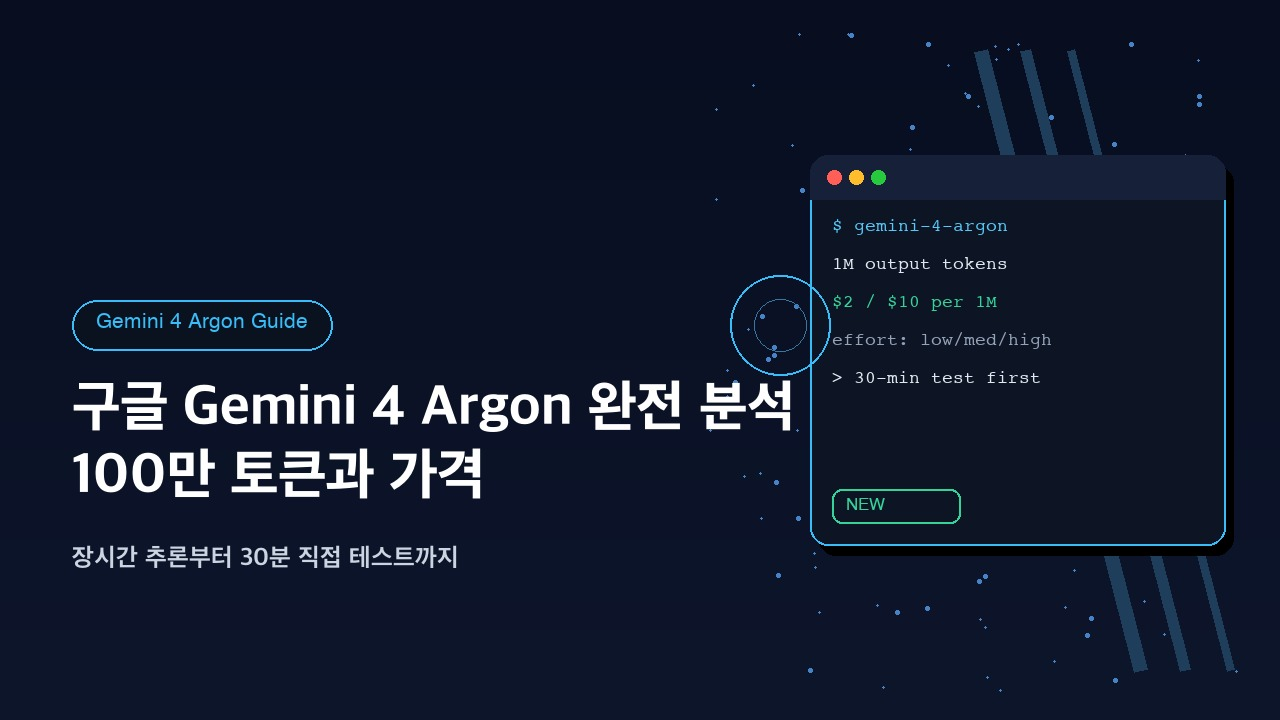
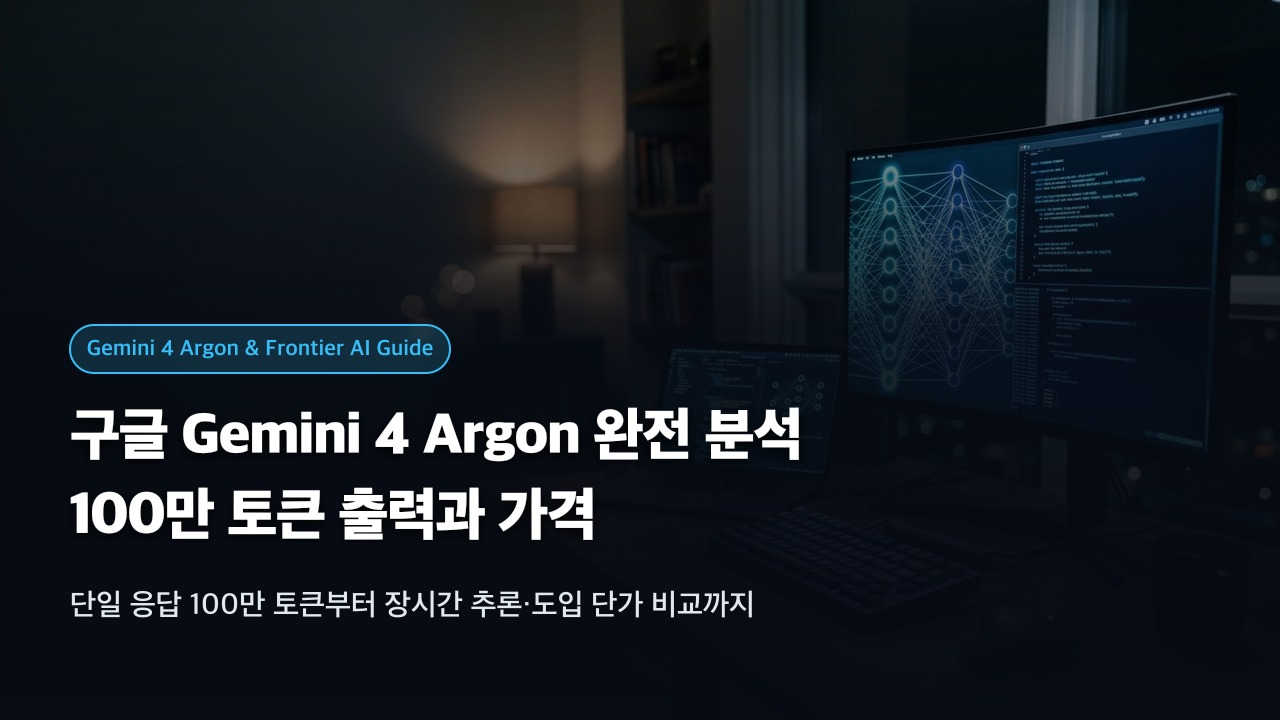
fix(post): Gemini 4 글 보완분 팩트체크 후 반영
- SVG strong 태그 렌더링 버그 수정 (font-weight로 전환)
- thinking_level 공식 파라미터명으로 정정
- 미확인 경쟁사 캐시할인 제거, 검증 수치로 시뮬레이션 재계산
- 썸네일 실사풍 표준 디자인으로 교체

diff --git a/files/posts/20261014-1-gemini-4-argon-analysis-guide.md b/files/posts/20261014-1-gemini-4-argon-analysis-guide.md
@@ -11,31 +11,145 @@ excerpt: "구글 프론티어 모델 Gemini 4 Argon의 100만 토큰 출력, 도
 
 구글이 차세대 프론티어 모델 <strong>Gemini 4 Argon</strong>을 공개했습니다. 2026년 9월 30일 신뢰할 수 있는 사이버 방어 조직 대상의 Fairwind 프로그램으로 먼저 선보인 뒤, 10월 중순부터 Gemini 앱 유료 구독자와 개발자에게 넓게 풀렸습니다. 2025년 말 Gemini 3 이후 약 1년 만의 세대 교체입니다.
 
-구글이 내세운 방향은 분명합니다. 챗봇이 아니라 <strong>소프트웨어 공학, 기업의 지식 업무(법무·금융), 사이버보안 방어</strong> 같은 길고 복잡한 실무 워크플로입니다. 에이전트에게 복잡한 일을 맡기고 몇 시간씩 놔둘 수 있는 <strong>장시간 추론(long-horizon)</strong>이 핵심 설계 목표입니다.
+구글이 내세운 방향은 분명합니다. 단순 챗봇 대화가 아니라 <strong>소프트웨어 공학, 기업의 복합 지식 업무(법무·금융), 사이버보안 취약점 방어</strong> 같은 길고 복잡한 실무 워크플로입니다. 에이전트에게 복잡한 목표를 맡기고 수십 분에서 수 시간 동안 자율 실행하도록 두는 <strong>장시간 추론(Long-Horizon Reasoning)</strong>이 핵심 설계 목표입니다.
+
+<div style="margin: 32px 0; display: flex; justify-content: center; width: 100%;">
+<svg viewBox="0 0 840 340" xmlns="http://www.w3.org/2000/svg" style="width: 100%; max-width: 840px; height: auto; font-family: -apple-system, BlinkMacSystemFont, Pretendard, sans-serif;">
+  <defs>
+    <linearGradient id="cardBg" x1="0%" y1="0%" x2="100%" y2="100%">
+      <stop offset="0%" stop-color="#161b22" />
+      <stop offset="100%" stop-color="#0d1117" />
+    </linearGradient>
+    <filter id="shadow" x="-5%" y="-5%" width="110%" height="110%">
+      <feDropShadow dx="0" dy="4" stdDeviation="6" flood-color="#000000" flood-opacity="0.3" />
+    </filter>
+    <marker id="arrowCyan" viewBox="0 0 10 10" refX="6" refY="5" markerWidth="6" markerHeight="6" orient="auto-start-reverse">
+      <path d="M 0 1 L 10 5 L 0 9 z" fill="#38bdf8" />
+    </marker>
+    <marker id="arrowIndigo" viewBox="0 0 10 10" refX="6" refY="5" markerWidth="6" markerHeight="6" orient="auto-start-reverse">
+      <path d="M 0 1 L 10 5 L 0 9 z" fill="#818cf8" />
+    </marker>
+    <marker id="arrowEmerald" viewBox="0 0 10 10" refX="6" refY="5" markerWidth="6" markerHeight="6" orient="auto-start-reverse">
+      <path d="M 0 1 L 10 5 L 0 9 z" fill="#34d399" />
+    </marker>
+    <marker id="arrowAmber" viewBox="0 0 10 10" refX="6" refY="5" markerWidth="6" markerHeight="6" orient="auto-start-reverse">
+      <path d="M 0 1 L 10 5 L 0 9 z" fill="#fbbf24" />
+    </marker>
+  </defs>
+  <!-- Background Container -->
+  <rect width="840" height="340" rx="14" fill="#0d1117" stroke="#30363d" stroke-width="1.5" />
+  <!-- Title Badge -->
+  <rect x="25" y="16" width="310" height="26" rx="13" fill="rgba(56, 189, 248, 0.15)" stroke="#38bdf8" stroke-width="1" />
+  <text x="180" y="33" fill="#38bdf8" font-size="12" font-weight="700" text-anchor="middle">Gemini 4 Argon Long-Horizon Agent Architecture</text>
+  
+  <!-- Node 1: Task Spec & Prompt Cache -->
+  <g transform="translate(25, 75)" filter="url(#shadow)">
+    <rect width="175" height="235" rx="10" fill="url(#cardBg)" stroke="#30363d" stroke-width="1.2" />
+    <rect x="12" y="14" width="28" height="28" rx="6" fill="#38bdf8" fill-opacity="0.2" />
+    <text x="26" y="33" font-size="16" text-anchor="middle">🎯</text>
+    <text x="48" y="33" fill="#ffffff" font-size="14" font-weight="700">작업 &amp; 컨텍스트</text>
+    <text x="16" y="65" fill="#38bdf8" font-size="11.5" font-weight="600">Prompt Caching ($0.10)</text>
+    <text x="16" y="88" fill="#94a3b8" font-size="11.5">• 대규모 소스코드 베이스</text>
+    <text x="16" y="108" fill="#94a3b8" font-size="11.5">• 방대한 법률/금융 문서</text>
+    <text x="16" y="128" fill="#94a3b8" font-size="11.5">• 보안 취약점 점검 명세</text>
+    <text x="16" y="158" fill="#34d399" font-size="11.5" font-weight="600">➔ 95% 캐싱 입력 할인</text>
+    <text x="16" y="178" fill="#94a3b8" font-size="11">• 반복 호출 시 TCO 극소화</text>
+  </g>
+
+  <!-- Node 2: Gemini 4 Argon Frontier Engine -->
+  <g transform="translate(225, 55)" filter="url(#shadow)">
+    <rect width="235" height="255" rx="10" fill="url(#cardBg)" stroke="#38bdf8" stroke-width="1.8" />
+    <rect x="12" y="14" width="28" height="28" rx="6" fill="#38bdf8" fill-opacity="0.2" />
+    <text x="26" y="33" font-size="16" text-anchor="middle">🧠</text>
+    <text x="48" y="33" fill="#ffffff" font-size="14" font-weight="700">Gemini 4 Argon Core</text>
+    <text x="16" y="65" fill="#7dd3fc" font-size="12" font-weight="600">Frontier Reasoning Engine</text>
+    <text x="16" y="90" fill="#94a3b8" font-size="11.5" font-weight="600">• 동적 추론 노력도 조절</text>
+    <text x="28" y="108" fill="#c7d2fe" font-size="11">low · medium · high</text>
+    <text x="16" y="132" fill="#94a3b8" font-size="11.5" font-weight="600">• 단일 응답 100만 토큰</text>
+    <text x="28" y="150" fill="#94a3b8" font-size="11">Continuation Token 루프</text>
+    <text x="16" y="174" fill="#94a3b8" font-size="11.5" font-weight="600">• Long-Horizon CoT</text>
+    <text x="28" y="192" fill="#94a3b8" font-size="11">세션 메모리 &amp; 상태 유지</text>
+    <text x="16" y="222" fill="#38bdf8" font-size="11.5" font-weight="600">➔ 스트리밍 청크 무중단 생성</text>
+  </g>
+
+  <!-- Node 3: Execution Sandbox -->
+  <g transform="translate(485, 55)" filter="url(#shadow)">
+    <rect width="165" height="115" rx="10" fill="url(#cardBg)" stroke="#818cf8" stroke-width="1.4" />
+    <rect x="12" y="12" width="26" height="26" rx="6" fill="#818cf8" fill-opacity="0.2" />
+    <text x="25" y="30" font-size="15" text-anchor="middle">⚙</text>
+    <text x="45" y="30" fill="#ffffff" font-size="13" font-weight="700">실행 샌드박스</text>
+    <text x="14" y="58" fill="#c7d2fe" font-size="11" font-weight="600">Isolated Sandbox</text>
+    <text x="14" y="78" fill="#94a3b8" font-size="11">• 코드 빌드 &amp; 실행</text>
+    <text x="14" y="96" fill="#94a3b8" font-size="11">• 도구 / API 자율 호출</text>
+  </g>
+
+  <!-- Node 4: External Grader -->
+  <g transform="translate(485, 195)" filter="url(#shadow)">
+    <rect width="165" height="115" rx="10" fill="url(#cardBg)" stroke="#fbbf24" stroke-width="1.4" />
+    <rect x="12" y="12" width="26" height="26" rx="6" fill="#fbbf24" fill-opacity="0.2" />
+    <text x="25" y="30" font-size="15" text-anchor="middle">🛡</text>
+    <text x="45" y="30" fill="#ffffff" font-size="13" font-weight="700">외부 채점자 (Grader)</text>
+    <text x="14" y="58" fill="#fde68a" font-size="11" font-weight="600">Independent Verifier</text>
+    <text x="14" y="78" fill="#94a3b8" font-size="11">• 테스트 러너 &amp; Linter</text>
+    <text x="14" y="96" fill="#34d399" font-size="11" font-weight="600">• 자가 합리화 편향 차단</text>
+  </g>
+
+  <!-- Node 5: Deliverable -->
+  <g transform="translate(675, 105)" filter="url(#shadow)">
+    <rect width="140" height="155" rx="10" fill="url(#cardBg)" stroke="#34d399" stroke-width="1.4" />
+    <rect x="12" y="12" width="26" height="26" rx="6" fill="#34d399" fill-opacity="0.2" />
+    <text x="25" y="30" font-size="15" text-anchor="middle">📦</text>
+    <text x="45" y="30" fill="#ffffff" font-size="13" font-weight="700">검증된 산출물</text>
+    <text x="14" y="58" fill="#a7f3d0" font-size="11" font-weight="600">Production Ready</text>
+    <text x="14" y="80" fill="#94a3b8" font-size="11">• 풀스택 웹 앱</text>
+    <text x="14" y="100" fill="#94a3b8" font-size="11">• 거대 벡터 그래픽</text>
+    <text x="14" y="120" fill="#94a3b8" font-size="11">• 보안 패치 완성</text>
+  </g>
+
+  <!-- Connections -->
+  <!-- User -> Argon -->
+  <path d="M 200 170 L 225 170" fill="none" stroke="#38bdf8" stroke-width="1.8" marker-end="url(#arrowCyan)" />
+  <!-- Argon -> Sandbox -->
+  <path d="M 460 110 L 485 110" fill="none" stroke="#818cf8" stroke-width="1.8" marker-end="url(#arrowIndigo)" />
+  <!-- Sandbox -> Grader -->
+  <path d="M 567 170 L 567 195" fill="none" stroke="#fbbf24" stroke-width="1.6" marker-end="url(#arrowAmber)" />
+  <text x="575" y="186" fill="#fbbf24" font-size="10" font-weight="600">검증 의뢰</text>
+  <!-- Grader -> Argon (Feedback Loop) -->
+  <path d="M 485 245 Q 470 245 460 230" fill="none" stroke="#fbbf24" stroke-width="1.6" stroke-dasharray="4 3" marker-end="url(#arrowAmber)" />
+  <text x="445" y="260" fill="#fbbf24" font-size="10" font-weight="600">피드백 루프</text>
+  <!-- Grader -> Deliverable (Verified) -->
+  <path d="M 650 240 Q 662 210 675 185" fill="none" stroke="#34d399" stroke-width="1.8" marker-end="url(#arrowEmerald)" />
+  <text x="642" y="180" fill="#34d399" font-size="10.5" font-weight="700">검증 통과</text>
+</svg>
+</div>
 
 ---
 
 ## 📏 2. 최대 변화: 단일 응답 100만 토큰 출력
 
-이번 발표에서 가장 눈에 띄는 숫자는 <strong>단일 응답 최대 100만 토큰 출력</strong>입니다. 기존 상한 6만 4천 토큰에서 단숨에 뛴 것입니다.
+이번 발표에서 가장 파격적인 수치는 <strong>단일 응답 최대 100만 토큰 출력</strong>입니다. 기존 최상위 LLM들이 유지하던 단일 생성 상한 6만 4천(64k) 토큰 한계를 단숨에 15배 이상 뛰어넘었습니다.
 
-| 항목 | 기존 수준 | <strong>Argon</strong> |
+| 항목 | 기존 프론티어 세대 | <strong>Gemini 4 Argon</strong> |
 | :--- | :--- | :--- |
 | <strong>단일 응답 출력 한도</strong> | 6만 4천 토큰 | <strong>100만 토큰</strong> |
-| <strong>이어쓰기</strong> | 끊기면 재생성 | <strong>continuation 토큰으로 계속 이어쓰기</strong> |
-| <strong>활용 예</strong> | 짧은 코드·글 | <strong>웹사이트 통째 재구축, 장편 벡터 코드, ML 실험</strong> |
+| <strong>출력 연속성 프로토콜</strong> | 응답 절단 시 재호출 | <strong>continuation 토큰으로 서버 세션 무중단 유지</strong> |
+| <strong>인풋 컨텍스트 윈도우</strong> | 200만 토큰 | <strong>200만 토큰 (초대형 입력) + 100만 토큰 (초대형 출력)</strong> |
+| <strong>실무 적용 예시</strong> | 짧은 코드 스니펫·모듈 단위 생성 | <strong>웹 서비스 전체 코드베이스 통째 재구축, 수만 줄 벡터 그래픽</strong> |
 
-얼리 액세스 리뷰에 따르면 해안 도시 전체를 손그림 벡터 코드 한 타일로 한 번에 생성하거나, 스크린샷 하나로 웹사이트를 통째로 다시 짜는 시연이 가능했습니다. 다만 구글도 밝혔듯, 이 한도는 특수 API 프로토콜을 통한 것이며 앱·일반 용도와는 조건이 다릅니다.
+### 💡 Continuation Token 프로토콜의 기술적 의의
+기존 LLM 환경에서 긴 출력을 만들지 못한 이유는 단순히 모델의 추론 능력 때문만은 아닙니다. HTTP 연결 타임아웃, 어텐션 KV 캐시의 메모리 급증, 네트워크 지연 중단 문제가 복합적으로 얽혀 있었습니다.
+
+Argon은 <strong>Continuation Token</strong> 메커니즘을 API 프로토콜 레벨에서 공식 지원합니다. 모델이 100만 토큰 규모의 방대한 코드를 뿜어내는 과정에서 네트워크 순단이나 타임아웃이 발생해도, 마지막 응답에 포함된 Continuation Token을 헤더에 실어 재전송하면 <strong>서버에 보존된 추론 상태를 그대로 이어받아</strong> 첫 글자부터 다시 시작하지 않고 매끄럽게 이어서 생성합니다.
 
 ---
 
-## 💳 3. 가격: 도입 한정 파격가와 경쟁 구도
+## 💳 3. 가격: 도입 한정 파격가와 실무 비용 시뮬레이션
 
 구글이 제시한 도입 API 가격은 아래와 같습니다.
 
 > <strong>입력 100만 토큰당 2달러 ➔ 출력 100만 토큰당 10달러 ➔ 캐시 입력 95% 할인(0.10달러)</strong>
 
-경쟁 모델과 나란히 두면 위치가 명확해집니다.
+경쟁 프론티어 모델과 나란히 두면 위치가 명확해집니다.
 
 | 모델 | 입력 / 100만 토큰 | 출력 / 100만 토큰 |
 | :--- | :--- | :--- |
@@ -44,74 +158,125 @@ excerpt: "구글 프론티어 모델 Gemini 4 Argon의 100만 토큰 출력, 도
 | Grok 4.7 | 2달러 | 6달러 |
 | GPT-6 Astra | 10달러 | 50달러 |
 
-구글 주장대로라면 라이벌 대비 절반 이하입니다. 단, 도입 한정 가격이라 인상 가능성을 염두에 둬야 하며, API 전면 개방 범위도 발표 시점 기준으로 단계적 확대 중입니다.
+캐시 입력 할인은 Argon만 공식 확인분(95% 할인, 0.10달러)을 표기합니다. 경쟁 모델의 캐시 조건은 발표 시점 기준 미확인이므로 아래 시뮬레이션에서는 기본가로만 계산했습니다.
+
+### 📊 실전 워크로드 비용 시뮬레이션
+"대규모 프로젝트 레포지토리(입력 50만 토큰)를 10회 반복 분석하며 리팩토링 코드(출력 10만 토큰/회)를 누적 생성하는 에이전틱 작업"을 기준으로 계산해 보았습니다.
+
+* <strong>Gemini 4 Argon (캐시 미적용):</strong> 입력(50만 × 2달러 × 10회) + 출력(10만 × 10달러 × 10회) = 10달러 + 10달러 = <strong>20.00달러</strong>
+* <strong>Gemini 4 Argon (프롬프트 캐싱 적용):</strong> 최초 입력 1.00달러 + 캐시 9회(50만 × 0.10달러 × 9 = 0.45달러) + 출력 10달러 = <strong>11.45달러 (약 43% 추가 절감)</strong>
+* <strong>Claude Opus 5.5 (기본가):</strong> 입력(50만 × 4달러 × 10회) + 출력(10만 × 20달러 × 10회) = 20달러 + 20달러 = <strong>40.00달러</strong>
+* <strong>Grok 4.7 (기본가):</strong> 입력(50만 × 2달러 × 10회) + 출력(10만 × 6달러 × 10회) = 10달러 + 6달러 = <strong>16.00달러</strong>
+* <strong>GPT-6 Astra (기본가):</strong> 입력(50만 × 10달러 × 10회) + 출력(10만 × 50달러 × 10회) = 50달러 + 50달러 = <strong>100.00달러</strong>
+
+구글이 내세운 공격적인 캐싱 정책($0.10/M) 덕분에, 코드베이스나 긴 문서를 반복 참조하는 에이전트 루프에서 압도적인 TCO(총소유비용) 우위를 보입니다. 단, 이는 도입 한정 프로모션 성격이 강하므로 향후 정식 서비스 전환 시 단가 조정 가능성을 염두에 두어야 합니다.
 
 ---
 
-## 🖥 4. 써보려면: 앱 구독 vs API
+## 🖥 4. 써보려면: 앱 구독 vs API 연동
 
-현재 Argon을 쓰는 경로는 두 갈래입니다.
+현재 Argon을 사용하는 경로는 크게 두 갈래입니다.
 
-1. <strong>Gemini 앱:</strong> Google AI Pro(월 19.99달러)·Ultra 구독자가 앱에서 바로 사용합니다.
-2. <strong>API:</strong> 개발자는 도입 가격으로 호출합니다. 캐시 입력 할인이 커서 반복 작업·에이전트 루프에 유리한 구조입니다.
+1. <strong>Gemini 앱:</strong> Google AI Pro(월 19.99달러) 및 Ultra 구독자가 웹 브라우저나 모바일 앱 환경에서 모델 선택 옵션으로 즉시 사용합니다.
+2. <strong>API & AI Studio:</strong> 개발자는 Google AI Studio 또는 Vertex AI 콘솔에서 API 키를 발급받아 프로젝트에 연동합니다.
 
-구글 내부에서는 이미 월 10만 명 이상의 직원이 Antigravity 경유로 쓰며, 4주 동안 에이전트 코드 제출이 35% 늘고 제출 후 롤백이 30% 줄었다고 밝혔습니다. 자사 수치이므로 그대로 믿기보다 <strong>내 작업에서의 재현 여부</strong>로 판단하세요.
+구글 내부 발표에 따르면, 이미 사내 10만 명 이상의 엔지니어가 Antigravity 환경을 통해 Argon을 실무에 투입하고 있으며, 4주간 에이전트 기반 코드 PR 제출량이 35% 늘고 배포 후 롤백 비율은 30% 감소했다고 발표했습니다. 자사 홍보 수치인 만큼 맹신하기보다는 내 실무 파이프라인에서 실제 재현되는지 소규모 파일럿으로 먼저 검증해야 합니다.
 
 ---
 
-## 🧠 5. 추론 노력도 조절: low·medium·high 고르기
+## 🧠 5. 추론 노력도 조절과 개발자 실전 코드
 
-Argon에는 작업 난이도별로 추론량을 조절하는 설정이 있습니다. 독립 리뷰에서 강조된 사용 팁을 정리하면 아래와 같습니다.
+Argon에는 작업 난이도별로 사고 깊이를 조절하는 공식 파라미터 <code>thinking_level</code>이 있습니다(<code>"low" | "medium" | "high"</code>, 구 <code>thinking_budget</code> 대체).
 
-* <strong>low:</strong> 단순 요약·서식 변환처럼 답이 뻔한 일에 씁니다. 빠르고 쌉니다.
-* <strong>medium:</strong> 일반적인 코딩·분석의 기본값입니다.
-* <strong>high:</strong> 장시간 에이전트 작업·어려운 수학·ML 실험처럼 깊이가 필요할 때 씁니다.
+* <strong>low:</strong> 정형 데이터 서식 변환, 단순 요약, 보일러플레이트 코드 생성 등 답이 명확한 일에 적합합니다. 응답 속도가 가장 빠르고 비용이 절감됩니다.
+* <strong>medium:</strong> 일반적인 기능 개발, 모듈 리팩토링, 복잡한 비즈니스 로직 분석의 권장 기본값입니다.
+* <strong>high:</strong> 장시간 자율 에이전트 작업, 수학적 증명, 대규모 아키텍처 재설계, 커널/보안 취약점 탐지 등 깊은 추론 체인이 필수적인 작업에 사용합니다.
 
-그리고 중요한 실전 팁 하나. <strong>채점자(grader)는 에이전트 샌드박스 밖에 두세요.</strong> 에이전트가 자기 결과를 스스로 채점하게 두면 관대해집니다. 검증 주체를 분리하는 것이 장시간 작업의 품질을 지킵니다.
+### 💻 Python Google GenAI SDK 실전 호출 예제
+아래는 최신 <code>google-genai</code> SDK를 사용하여 추론 노력도를 <code>high</code>로 지정하고 단일 응답 100만 토큰 출력을 요청하는 표준 코드입니다.
+
+```python
+from google import genai
+from google.genai import types
+
+# 1. 클라이언트 초기화 (GEMINI_API_KEY 환경변수 자동 참조)
+client = genai.Client()
+
+# 2. 추론 깊이 및 100만 토큰 출력 구성
+#    필드명은 공식 개발자 문서 기준이며 SDK 버전에 따라 다를 수 있다
+config = types.GenerateContentConfig(
+    thinking_config=types.ThinkingConfig(
+        thinking_level="high"  # "low", "medium", "high"
+    ),
+    max_output_tokens=1000000,
+    temperature=0.2,  # 결정론적 코딩 작업 시 낮은 값 권장
+)
+
+# 3. 초대형 코드베이스 생성 요청
+response = client.models.generate_content(
+    model="gemini-4-argon",
+    contents="분산 트랜잭션을 처리하는 사가(Saga) 패턴 기반 결제 시스템 전체 소스코드를 작성해줘.",
+    config=config,
+)
+
+print(f"생성 완료 토큰 수: {response.usage_metadata.candidates_token_count}")
+print(response.text[:500])
+```
+
+### 🛡 장시간 에이전트의 핵심: 외부 채점자(External Grader) 패턴
+에이전트에게 30분\~1시간 이상의 긴 자율 권한을 부여할 때 가장 흔히 겪는 실패는 <strong>자가 합리화(Sycophancy)</strong>입니다. 에이전트에게 "코드가 잘 작동하는지 스스로 확인하라"고 맡기면 오류가 발생해도 그럴듯한 이유를 대며 성공했다고 보고를 끝내버립니다.
+
+따라서 <strong>채점자(Grader)는 반드시 에이전트 샌드박스 외부에 독립 배치</strong>해야 합니다:
+1. 에이전트가 코드를 작성하여 격리 샌드박스에 커밋합니다.
+2. 샌드박스 외부의 CI 러너가 Jest/PyTest 단위 테스트와 Linter를 실행합니다.
+3. 오직 기계적인 판정 결과(Exit Code 0/1, Stderr 로그)만 에이전트의 다음 프롬프트로 주입합니다.
+4. 이 구조가 갖춰져야만 Argon의 고강도 추론 능력이 환각에 빠지지 않고 정답에 수렴합니다.
 
 ---
 
 ## ⚖ 6. 벤치마크는 반만 믿기
 
-구글은 코딩·사이버보안·과학·금융·법무 벤치마크에서 GPT-6 Astra, Claude Fable 5.1, Opus 5.5를 앞선다고 발표했습니다. 하지만 독립 테스트에서는 경쟁 구도가 단순하지 않다는 평가도 나옵니다.
+구글은 공식 벤치마크에서 코딩·사이버보안·과학·수학 전반에 걸쳐 GPT-6 Astra와 Claude Opus 5.5를 상회한다고 발표했습니다. 하지만 독립 개발자 커뮤니티의 실측에서는 프롬프트 구조와 도구 세팅에 따라 우위가 엇갈린다는 분석도 나오고 있습니다.
 
 > <strong>벤치마크는 반만 믿기</strong>
 >
-> 제공사 수치는 출발선일 뿐, 내 워크로드에서의 승자가 진짜 승자입니다.
+> 벤치마크 수치는 참고용일 뿐이며, 내 실제 소스코드와 업무 데이터에서 산출된 결과가 유일한 기준입니다.
 
-이미 구글 생태계(Cloud·Workspace)에 투자한 팀이라면 Argon을 붙이는 것이 합리적일 수 있습니다. 반대로 특정 작업 최고 성능이 목표라면, 같은 프롬프트로 2\~3개 모델을 돌려 직접 비교하는 30분 테스트를 권장합니다.
+Google Cloud나 Workspace 인프라에 이미 깊게 연결된 기업이라면 Argon 도입이 가장 빠르고 비용 효율적입니다. 반면 특정 도메인의 최고 품질이 요구된다면, 실제 프로덕션 프롬프트 5개를 선정하여 Argon과 경쟁 모델을 <strong>동일 조건에서 30분간 비교 블라인드 테스트</strong>해 보고 결정하는 것이 가장 안전합니다.
 
 ---
 
 ## 🧭 7. 전작과 비교: 3.x에서 무엇이 바뀌었나
 
-| 항목 | Gemini 3.x 세대 | <strong>Gemini 4 Argon</strong> |
+| 비교 항목 | Gemini 3.x 세대 (Flash / Pro) | <strong>Gemini 4 Argon</strong> |
 | :--- | :--- | :--- |
-| <strong>세대 목표</strong> | 빠른·저렴한 에이전트 대중화 | <strong>어렵고 긴 실무의 정복</strong> |
-| <strong>출력 한도</strong> | 수만 토큰대 | <strong>단일 응답 100만 토큰</strong> |
-| <strong>추론 조절</strong> | 모델별 고정 성향 | <strong>low·medium·high 명시 선택</strong> |
-| <strong>주 전장</strong> | 앱·경량 작업 | <strong>코딩·법무·금융·보안 실무</strong> |
+| <strong>설계 목표</strong> | 빠른 속도와 저렴한 비용의 에이전트 대중화 | <strong>수 시간 단위의 어렵고 복잡한 실무 엔지니어링 정복</strong> |
+| <strong>출력 한도</strong> | 8k \~ 64k 토큰 | <strong>단일 응답 100만 토큰 (Continuation Token 지원)</strong> |
+| <strong>추론 조절</strong> | 모델 파라미터별 고정 성향 | <strong>low / medium / high API 명시 제어</strong> |
+| <strong>주요 타깃</strong> | 일반 대화, 검색 보조, 단위 스크립트 작성 | <strong>풀스택 시스템 리팩토링, 엔터프라이즈 감사, 사이버 방어</strong> |
 
-누가 쓰면 좋은지도 갈립니다. 장문 코드 생성·에이전트 루프·대량 문서 분석이 일이라면 Argon을 30분 테스트해 볼 가치가 있습니다. 가벼운 요약·검색이라면 기존 Flash급으로 충분하고 돈이 아깝습니다. <strong>무거운 일에만 무거운 모델</strong>이 요령입니다.
+결론적으로 모델을 고르는 기준은 명확합니다. 수만 줄 규모의 코드 생성, 장시간 자율 에이전트 루프, 대규모 문서 감사가 일상이라면 Argon을 즉시 도입해 볼 가치가 있습니다. 반면 가벼운 텍스트 요약이나 일반 검색이라면 기존 Gemini 3.x Flash나 Gemini 2.5급으로도 차고 넘치며, 불필요한 비용 낭비를 막을 수 있습니다. <strong>무거운 작업에만 무거운 모델을 투입하는 것</strong>이 현명한 엔지니어링입니다.
 
 ---
 
 ## ❓ 자주 묻는 질문
 
-<strong>Q1. 무료로 써볼 수 있나요?</strong><br />
-A. 앱은 Pro·Ultra 구독이 필요하고, API는 도입 가격의 유료 호출입니다. 완전 무료 티어는 발표 시점 기준 없습니다.
+<strong>Q1. 완전 무료로 써볼 수 있는 방법이 있나요?</strong><br />
+A. 현재 완전 무료 티어는 제공되지 않습니다. 웹 앱 사용자는 Google AI Pro(월 19.99달러) 이상의 구독이 필요하며, API는 100만 토큰당 입력 2달러, 출력 10달러의 도입 가격으로 종량 과금됩니다. 단, 신규 가입 시 제공되는 크레딧으로 초기 테스트는 가능합니다.
 
-<strong>Q2. 기존 Gemini와 무엇이 가장 다른가요?</strong><br />
-A. 단일 응답 100만 토큰 출력과 장시간 에이전트 작업 설계입니다. 챗봇 성능이 아니라 <strong>맡겨두고 몇 시간 돌리는 일</strong>에 초점이 있습니다.
+<strong>Q2. 기존 Gemini 3.x 모델들과 체감상 가장 큰 차이는 무엇인가요?</strong><br />
+A. <strong>단일 응답 100만 토큰 생성</strong>과 <strong>장시간 추론 안정성</strong>입니다. 기존 모델은 긴 코드를 작성하다 중간에 끊기거나 앞부분의 맥락을 잊는 현상이 잦았지만, Argon은 Continuation Token 기반으로 대규모 프로젝트 전체를 일관된 맥락 속에서 한 번에 뽑아냅니다.
 
-<strong>Q3. 지금 도입해도 되나요?</strong><br />
-A. 구글 생태계 사용자나 장문 생성·에이전트 코딩이 주 업무라면 30분 비교 테스트 후 판단하세요. 가벼운 용도라면 기존 모델로 충분합니다.
+<strong>Q3. 지금 바로 사내 프로덕션에 도입해도 안전한가요?</strong><br />
+A. 코드 리팩토링이나 취약점 점검처럼 <strong>외부 채점자(CI/테스트)가 검증 가능한 영역</strong>부터 단계적으로 도입하는 것을 권장합니다. 에이전트의 자가 평가에 전적으로 의존하는 배포 파이프라인은 위험할 수 있습니다.
 
 ---
 
-## 🎯 7. 총평: 구글이 전면에 복귀했다
+## 🎯 8. 총평: 구글이 전면에 복귀했다
 
-수개월간 프론티어 경쟁에서 뒤처졌던 구글이 Argon으로 전면에 복귀했습니다. 100만 토큰 출력, 파격 도입가, 장시간 추론 설계는 모두 실무를 겨냥합니다. 다만 벤치마크 1등 선언보다 중요한 것은 <strong>내 일에서의 재현</strong>입니다. 무료도 아니고 싼 것도 아니니, 지갑 열기 전에 30분만 직접 돌려보세요.
+지난 수개월간 프론티어 AI 경쟁에서 숨을 고르던 구글이 Argon을 통해 가장 현실적이고 강력한 무기로 전면에 복귀했습니다. 100만 토큰 출력, 파격적인 캐싱 단가($0.10/M), 장시간 추론 설계는 철저히 엔터프라이즈 실무 엔지니어링을 정조준하고 있습니다.
+
+하지만 발표 자료의 벤치마크 1등 수치보다 중요한 것은 <strong>내 업무 파이프라인에서의 실질적인 재현율</strong>입니다. 결제를 확대하기 전, 가장 까다로운 실무 태스크 2\~3개를 골라 30분간 직접 비교 테스트해 보시기 바랍니다.
 
 ---
 
